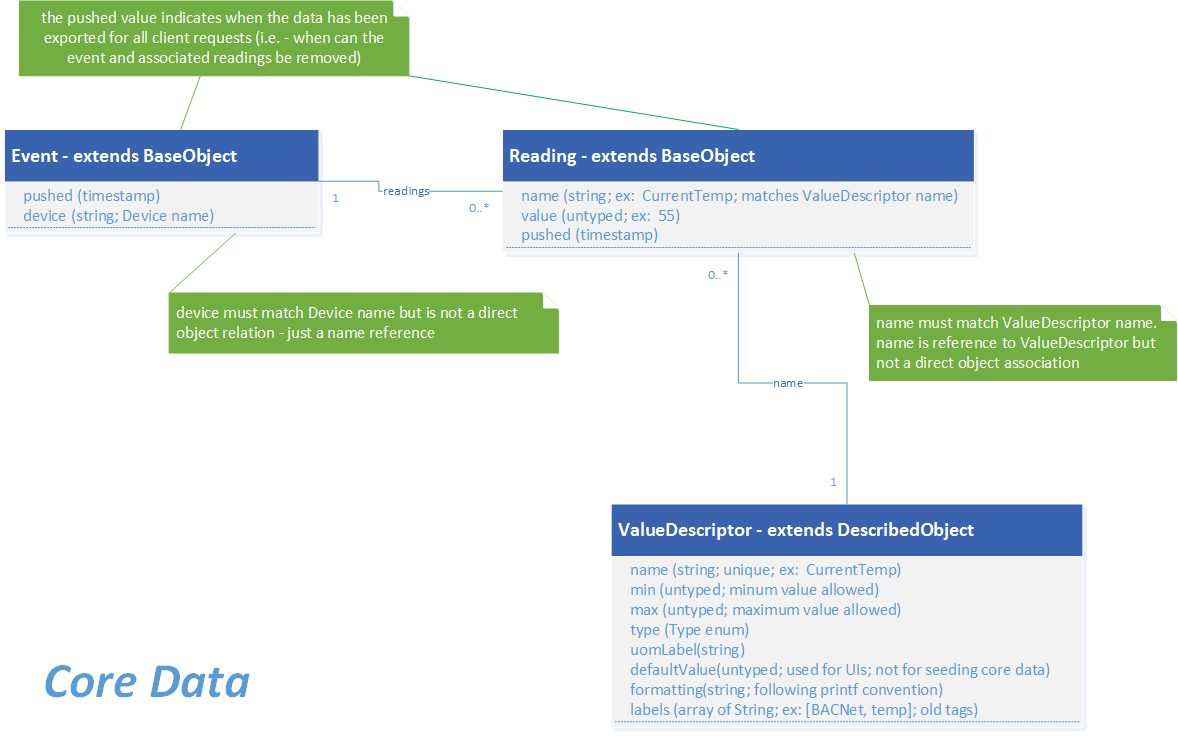
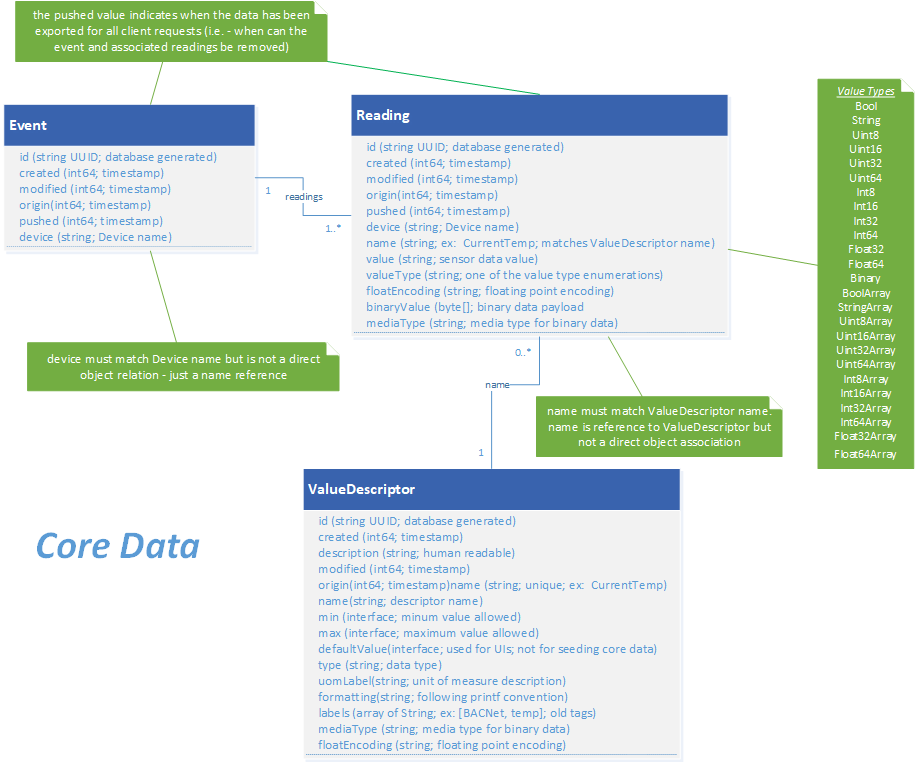
update to the micro services core data page; including more detail and updated to Geneva schemas

diff --git a/docs_src/microservices/core/data/Ch-CoreData.md b/docs_src/microservices/core/data/Ch-CoreData.md
@@ -1,102 +1,170 @@
 # Core Data
 
-![zoomify](EdgeX_CoreData.png)
+![image](EdgeX_CoreData.png)
 
 ## Introduction
 
-The Core Data microservice provides a centralized persistence facility
-for data readings collected by devices and sensors. Device services for
-devices and sensors that collect data, call on the Core Data service to
-store the device and sensor data on the edge system (such as in a
-gateway) until the data can be moved "north" and then exported to
-Enterprise and cloud systems.
+The core data micro service provides centralized persistence for data collected by [devices](../../../general/Definitions.md#device). 
+Device services that collect sensor data call on the core data service to
+store the sensor data on the edge system (such as in a
+[gateway](../../../general/Definitions.md#gateway)) until the data gets moved "north" and then exported to
+Enterprise and cloud systems.  Core data persists the data in a local database.  [Redis](https://redis.io/) is used by default, but a database abstraction layer allows for other databases to be used.
 
-Other services, such as a Scheduling services, within EdgeX Foundry and
-potentially outside of EdgeX Foundry, access the device and sensor data
-stored on the gateway only through the Core Data service. Core Data
-provides a degree of security and protection of the data collected by
-devices and sensors while the data is at the edge.
+!!! Note
+        EdgeX has used [MongoDB](https://www.mongodb.com/) in the past. Through the Geneva release, MongoDB is still supported but is considered deprecated.  Alternate (both open source and commercial) implementations have also been provided in the past. 
 
-Core Data uses a REST API for moving data into and out of the local
-storage. In the future, the microservice could be expandable to allow
-data to be accessed via other protocols such as MQTT, AMQP, and so
-forth. Core Data moves data to the Export Service layer via ZeroMQ by
-default. An alternate configuration of the Core Data microservice allows
-the data to be distributed to the Export Services via MQTT, but would
-also require the installation of a broker such as ActiveMQ.
+Other services and systems, both within EdgeX Foundry and
+outside of EdgeX Foundry, access the sensor data
+only through the core data service. Core data
+could also provide a degree of security and protection of the data collected while the data is at the edge.
 
-The Rules Engine microservice receives its data from the Export
-Distribution microservice by default. Where latency or volume are of
-concern, an alternate configuration of the Rules Engine microservices
-allows it to also get its data directly from Core Data via ZeroMQ (it
-becomes a second subscriber to the same Export Services ZeroMQ
-distribution channel).
+Core data has a REST API for moving data into and out of the local
+storage. In the future, core data could be expandable to send or access sensor data via other protocols such as MQTT, AMQP, etc. Core data moves data to the application service (and [edge analytcs](../../../general/Definitions.md#edge-analytics)) via ZeroMQ by default. 
+A message bus abstraction allows core data to use an alternate message bus technology, like MQTT, to send data to the application services.  Use of MQTT requires the installation of a broker such as ActiveMQ.
 
 ## Core Data "Streaming"
 
-By default, Core Data does persist all data collected by devices and
-sensors sent to it. However, when the data is too sensitive to be stored
-at the edge, or the need is not present for data at the edge to be used
-by other services locally (e.g. by an analytics microservice), the data
-can be "streamed" through Core Data without persisting it. A
-configuration change to Core Data (persist.data=false) has Core Data
-send data to the Export Service, through message queue, without
-persisting the data locally. This option has the advantage of reducing
-latency through this layer and storage needs at the network edge, but
-the cost is having no historical data to use for operations based on
-changes over time, and only minimal device actuation decisions, based on
-single event data, at the edge.
+By default, core data persists all data collected by devices sent to it. However, when the data is too sensitive to keep
+at the edge, or there is no use for the data at the edge by other local services (e.g. by an analytics micro service), the data
+can be "streamed" through core data without persisting it. A
+configuration change to core data (PersistData=false) has core data
+send data to the application services without
+persisting the data. This option has the advantage of reducing
+latency through this layer and storage needs at the network edge.  But
+the cost is having no historical data to use for analytics that need to look back in time to make a decision.
+
+## Events and Readings
+
+Data collected from sensors is marshalled into EdgeX event and reading objects (delivered as JSON objects in service REST calls to core data).  An event represents a collection of one or more sensor readings.  Some sensors or devices are only providing a single value – a single reading - at a time. Other sensors spew multiple values whenever they are read.
+
+An event must have at least one reading.  Events are associated to a sensor or device – the “thing” that sensed the environment and produced the readings.  Readings represent a sensing on the part of a device or sensor.  Readings only exist as part of (are owned by) an event.  Readings are essentially a simple key/value pair of what was sensed (the key) and the value sensed (the value).  A reading may include other bits of information to provide more context (for example data type information) for the users of that data.  Consumers of the reading data could include things like user interfaces, data visualization systems and analytics tools.
+
+In the diagram below, an example event/reading collection is depicted.  The event coming from the “motor123” device has two readings (or sensed values).  The first reading indicates that the motor123 device reported the pressure of the motor was 1300 (the unit of measure might be something like PSI).
+
+![image](EdgeX_Event-Reading.png)
+
+The value type property (shown as type above) on the reading lets the consumer of the information know that the value is an integer, base 64.  The second reading indicates that the motor123 device also reported the temperature of the motor was 120 at the same time it reported the pressure (perhaps in degrees Fahrenheit).
 
 ## Data Model
 
-The following diagram shows the Data Model for Core Data.
+The following diagram shows the Data Model for core data.  Device services send Event objects containing a collection or Readings to core data when a device captures a sensor reading.
 
 ![image](EdgeX_CoreDataModel.png)
 
 ## Data Dictionary
 
-
-| Class        | Description                                 |
-| --- | --- |
-| Event              | <ul><li>ID Device</li><li>Identifier</li><li>Collection of Readings</li><br>Event has a one-to-many relationship with Reading. |      
-| Reading            | name-value pair<br>Examples: "temp 62" "rpm 3000"<br>The **value**is an Integer, Decimal, String, or Boolean.<br> The **name**  a value descriptor reference. The value descriptor defines information about the information the Reading should convey. |
-| Value Descriptor   | This specifies a folder to put the log files.   |
-
+=== "Event"
+    |Property|Description|
+    |---|---|
+    ||Event represents a single measurable event read from a device.  Event has a one-to-many relationship with Reading.|
+    |ID|Uniquely identifies an event, for example a UUID|
+	|Pushed|A timestamp indicating when the event was exported. If unexported, the value is zero.|
+	|Device|Device identifies the source of the event, can be a device name or id. Usually the device name.|
+	|Created|A timestamp indicating when the event was created in the database|
+	|Modified|A timestamp indicating when the event was last modified.|
+	|Origin|A timestamp indicating when the original event/reading took place.  Most of the time, this indicates when the device service collected/created the event|
+	|Readings|A collection (one to many) of associated readings of a given event.
+=== "Reading"
+    |Property|Description|
+    |---|---|
+    |ID|Uniquely identifies a reading, for example a UUID|
+	|Pushed|A timestamp indicating when the reading was exported. If unexported, the value is zero.|
+	|Device|Device identifies the source of the reading, can be a device name or id. Usually the device name.|
+	|Created|A timestamp indicating when the reading was created in the database|
+	|Modified|A timestamp indicating when the reading was last modified.|
+	|Origin|A timestamp indicating when the original event/reading took place.  Most of the time, this indicates when the device service collected/created the event|
+    |Name|Name-Value provide the key/value pair of what was sensed by a device.  Name specifies what was the value collected.  Name should match a value descriptor name.|
+    |Value|The sensor data value|
+    |ValueType|The type of the sensor data - from a list of allowed value types that includes Bool, String, Uint8, Int8, ...|
+    |FloatEncoding|Floating point encoding format for float values|
+    |BinaryValue|Byte array of sensor data when the data captured is not structured; for example an image is captured.  This information is not persisted in the Database and is expected to be empty when retrieving a Reading for the ValueType of Binary|
+    |MediaType|Indicating the type of binary data when collected|
+=== "ValueDescriptor"
+    |Property|Description|
+    |---|---|
+    ||Provide the context, unit of measure and more information about any sensed data value| 
+    |ID|Uniquely identifies a value descriptor, for example a UUID|
+	|Created|A timestamp indicating when the value descriptor was created in the database|
+	|Modified|A timestamp indicating when the value descriptor was last modified.|
+	|Origin|A timestamp indicating when the original value descriptor was created.  Most of the time, this indicates when the device service requested the value descriptor be created|
+    |Descrption|Describes what the value descriptor is used for (example: defines a thermostat temperature value)|
+    |Name|Name of the value descriptor and used as the name key in the reading|
+    |Min|Minimum allowed value|
+    |Max|Maximum allowed value|
+    |DefaultValue||
+    |Type|Value data type|
+    |UomLabel|Unit of measure label|
+    |Formatting|Printf convention for display of the value|
+    |Labels|array of associated means to label or tag a value (examples: BACNet, temp, thermostat)|
+    |FloatEncoding|Floating point encoding format for float values|
+    |MediaType|Indicating the type of binary data when collected|
 
 ## High Level Interaction Diagrams
 
 The two following High Level Interaction Diagrams show:
 
-> EdgeX Foundry Core Data add device or sensor readings EdgeX Foundry
-> Core Data request event reading or data for a device
+- How new sensor readings are collected by a device and added as event/readings to core data and the associated persistence store
+- How a client (inside or outside of EdgeX) can query for events (in this case by device name)
 
-**Core Data Add Device or Sensor Readings**
+**Core Data Add Sensor Readings**
 
 ![image](EdgeX_CoreDataAddDevice.png)
 
-**Core Data Request Event Reading or Data for a Device**
+**Core Data Request Event / Reading for a Device**
 
 ![image](EdgeX_CoreDataEventReading.png)
 
 ## Configuration Properties
 
-Please refer to the general [Configuration documentation](https://docs.edgexfoundry.org/1.2/microservices/configuration/Ch-Configuration/#configuration) for configuration properties common across all services.
+Please refer to the general [Configuration documentation](https://docs.edgexfoundry.org/1.2/microservices/configuration/Ch-Configuration/#configuration) for configuration properties common to all services.
 
-In order to support publishing events via message bus, Core-Data has the following additional configuration section. Changes made to any of these properties while the service is running will not be reflected until the service is restarted.
+=== "Writable"
+    |Property|Default Value|Description|
+    |---|---|---|
+    ||Writable properties can be set and will dynamically take effect without service restart|
+    |DeviceUpdateLastConnected|false|When true, core data updates the last connected timestamp for the device in metadata with each event from a given device|
+    |MetaDataCheck|false|When true, core data calls metadata to check that the event's referenced device is known to meta data|
+    |PersistData|true|When true, core data persists all sensor data sent to it in its associated database|
+    |ServiceUpdateLastConnected|false|When true, core data updates the last connected timestamp for the device service in metadata|
+    |ValidateCheck|false|When true, core data checks that the name (the value descriptor) of a reading is known to metadata|
+    |ChecksumAlgo|'xxHash'|Identifies the algorithm to use when calculating an event's checksum.|
+=== "Service"
+    |Property|Default Value|Description|
+    |---|---|---|
+    |MaxResultCount|50000|Maximum number of objects (example: events) that are to be returned on any query of core data via its API|
+=== "Databases/Databases.Primary"
+    |Property|Default Value|Description|
+    |---|---|---|
+    ||Properties used by the service to access the database|
+    |Host|'localhost'|Host running the core data persistence database|
+    |Name|'coredata'|Document store or database name|
+    |Password|'password'|Password used to access the database|
+    |Username|'core'|Username used to access the database|
+    |Port|6379|Port for accessing the database service - the Redis port by default|
+    |Timeout|5000|Database connection timeout in milliseconds|
+    |Type|'redisdb'|Database to use - either redisdb or mongodb|
+=== "MessageQueue"
+    |Property|Default Value|Description|
+    |---|---|---|
+    ||Entries in the MessageQueue section of the configuration allow for publication of events to a message bus|
+    |MessageQueue Protocol | tcp | Indicates the connectivity protocol to use to use the bus.|
+    |MessageQueue Host | * | Indicates the host of the messaging broker, if applicable.|
+    |MessageQueue Port | 5563 | Indicates the port to use when publishing a message.|
+    |MessageQueue Type | zero | Indicates the type of messaging library to use. Currently this is ZeroMQ by default. Refer to the [go-mod-messaging](https://github.com/edgexfoundry/go-mod-messaging) module for more information. |
+    |MessageQueue Topic | events | Indicates the topic to which messages should be published.|
+=== "MessageQueue.Optional"
+    |Property|Default Value|Description|
+    |---|---|---|
+    ||Configuration and connection parameters for use with MQTT message bus - in place of 0MQ |
+    |Password|'password'|Password used to access the message system|
+    |Username|'core'|Username used to access the message system|
+    |ClientId|'core-data'|Client ID used to put messages on the bus|
+    |Qos|'0'| Quality of Sevice values are 0 (At most once), 1 (At least once) or 2 (Exactly once)|
+    |KeepAlive |'10'| Period of time in seconds to keep the connection alive when there is no messages flowing (must be 2 or greater)|
+    |Retained|false|Whether to retain messages|
+    |AutoReconnect |true |Whether to reconnect to the message bus on connection loss|
+    |ConnectTimeout|5|Message bus connection timeout in seconds|
+    |SkipCertVerify|false|TLS configuration - Only used if Cert/Key file or Cert/Key PEMblock are specified|
 
-|Configuration  |     Default Value     |             Dependencies|
-| --- | --- | -- |
-| **Entries in the MessageQueue section of the configuration allow for publication of events to a message bus** |
-|MessageQueue Protocol | tcp | Indicates the connectivity protocol to use to use the bus.|
-|MessageQueue Host | * | Indicates the host of the messaging broker, if applicable.|
-|MessageQueue Port | 5563 | Indicates the port to use when publishing a message.|
-|MessageQueue Type | zero | Indicates the type of messaging library to use. Currently this is ZeroMQ by default. Refer to the [go-mod-messaging](https://github.com/edgexfoundry/go-mod-messaging) module for more information. |
-|MessageQueue Topic | events | Indicates the topic to which messages should be published.|
-| **The following are additional entries in Writable section applicable to the Core-Data service.** |
-|Writable DeviceUpdateLastConnected | false | Indicates whether the "Device Last Connected" timestamp should be updated with each event received from a given device.|
-|Writable MetaDataCheck | false | Indicates whether a call to Core-Metadata should be made to check the validity of the device associated with the incoming event.|
-|Writable PersistData | true | Indicates whether sensor event data should be persisted to the database. If set to "false", then Core-Data is nothing but a pass-through.|
-|Writable ServiceUpdateLastConnected | false | Indicates whether the "Device Service Last Connected" timestamp should be updated with each event received from a given device.|
-|Writable ValidateCheck | false | Indicates whether a call to Core-Metadata should be made for validation of value descriptors assigned to each reading in an event.|
-|Writable ChecksumAlgo | xxHash | Identifies the algorithm to use when calculating an event's checksum. |
- | | | |
+## API Reference
+[Core Data API Reference](../../../api/core/Ch-APICoreData.md)

diff --git a/docs_src/microservices/core/Ch-CoreServices.md b/docs_src/microservices/core/Ch-CoreServices.md
@@ -1,0 +1,10 @@
+# Core Services
+
+![image](EdgeX_CoreServices.png)
+
+Core services provide the intermediary between the [north and south sides](../../general/Definitions.md#south-and-north-side) of EdgeX.  As the name of these services implies, they are “core” to EdgeX functionality.  Core services is where the innate knowledge of “things” connected, sensor data collected, and EdgeX configuration resides.  Core consists of the following micro services:
+
+- [Core data](./data/Ch-CoreData.md): a persistence repository and associated management service for data collected from south side objects.
+- [Command](./command/Ch-Command.md): a service that facilitates and controls actuation requests from the north side to the south side.
+- [Metadata](./metadata/Ch-Metadata.md): a repository and associated management service of metadata about the objects that are connected to EdgeX Foundry. Metadata provides the capability to provision new devices and pair them with their owning device services.
+- [Registry and Configuration](../configuration/Ch-Configuration.md): provides other EdgeX Foundry micro services with information about associated services within the system and micro services configuration properties (i.e. - a repository of initialization values).

diff --git a/docs_src/microservices/configuration/Ch-Configuration.md b/docs_src/microservices/configuration/Ch-Configuration.md
@@ -1,5 +1,7 @@
 # Configuration and Registry
 
+![image](EdgeX_CoreRegConfig.png)
+
 ## Introduction
 
 The purpose of this section is to describe the configuration and service
